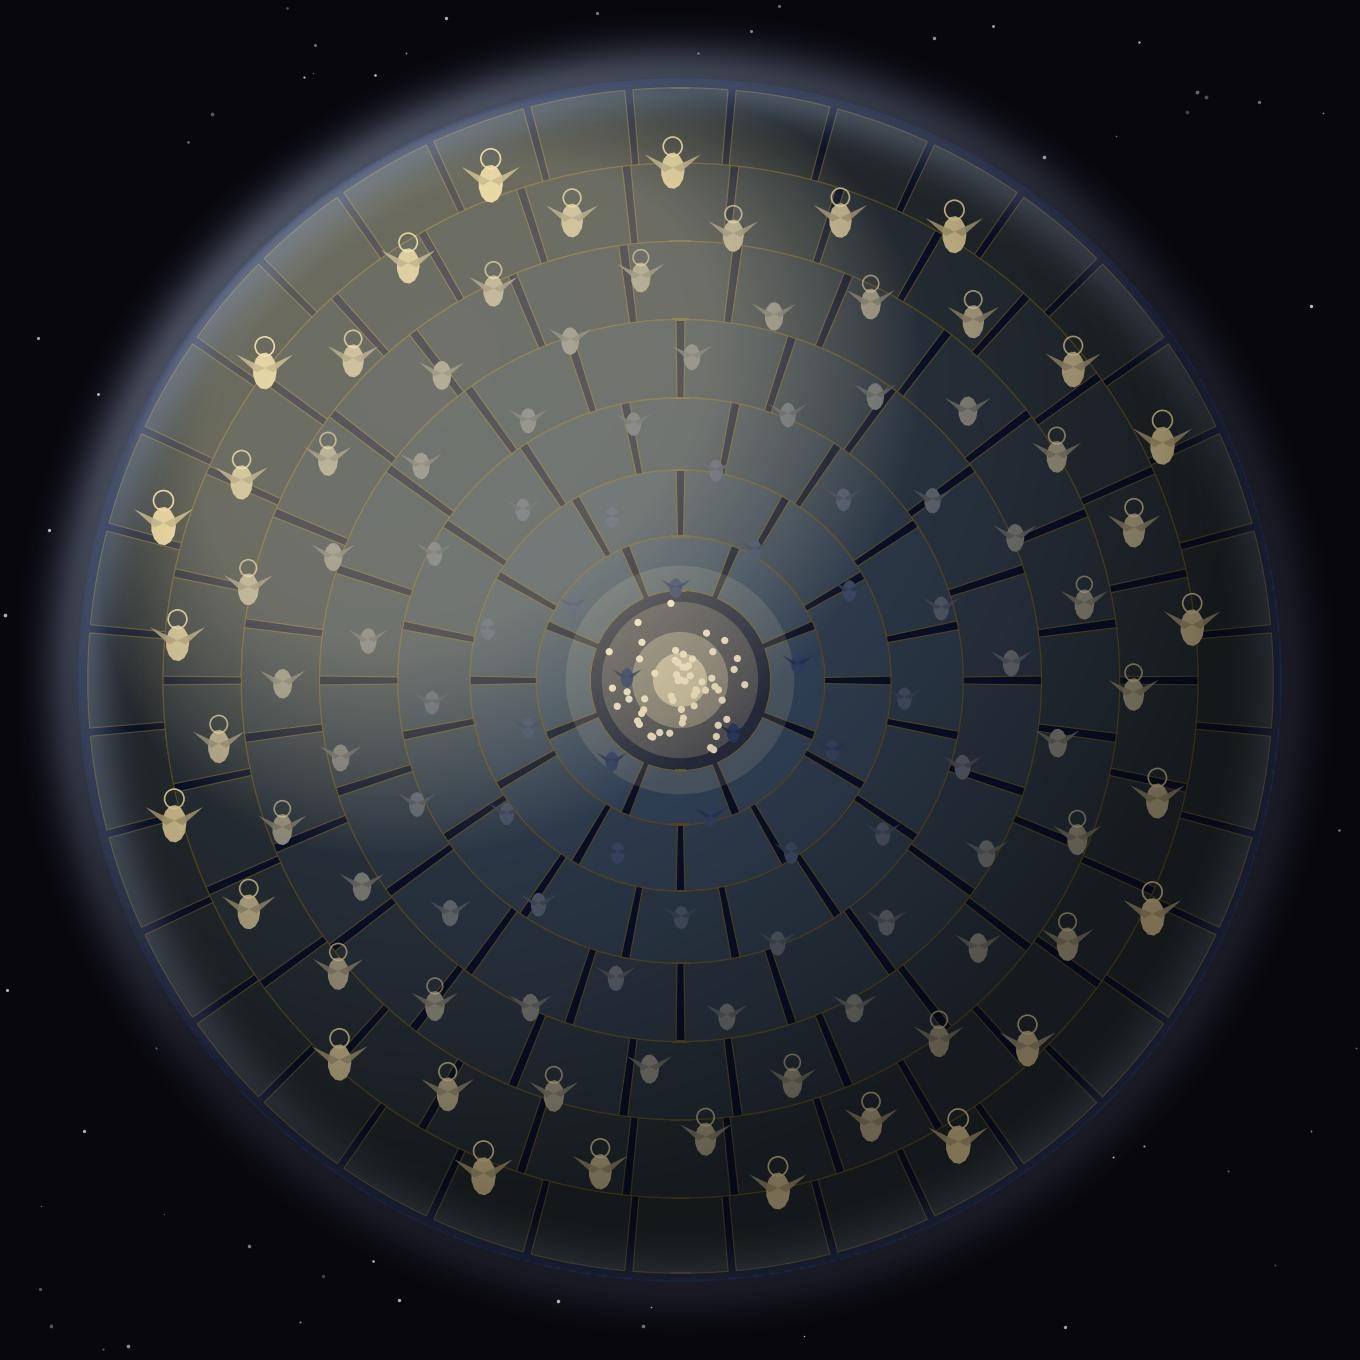
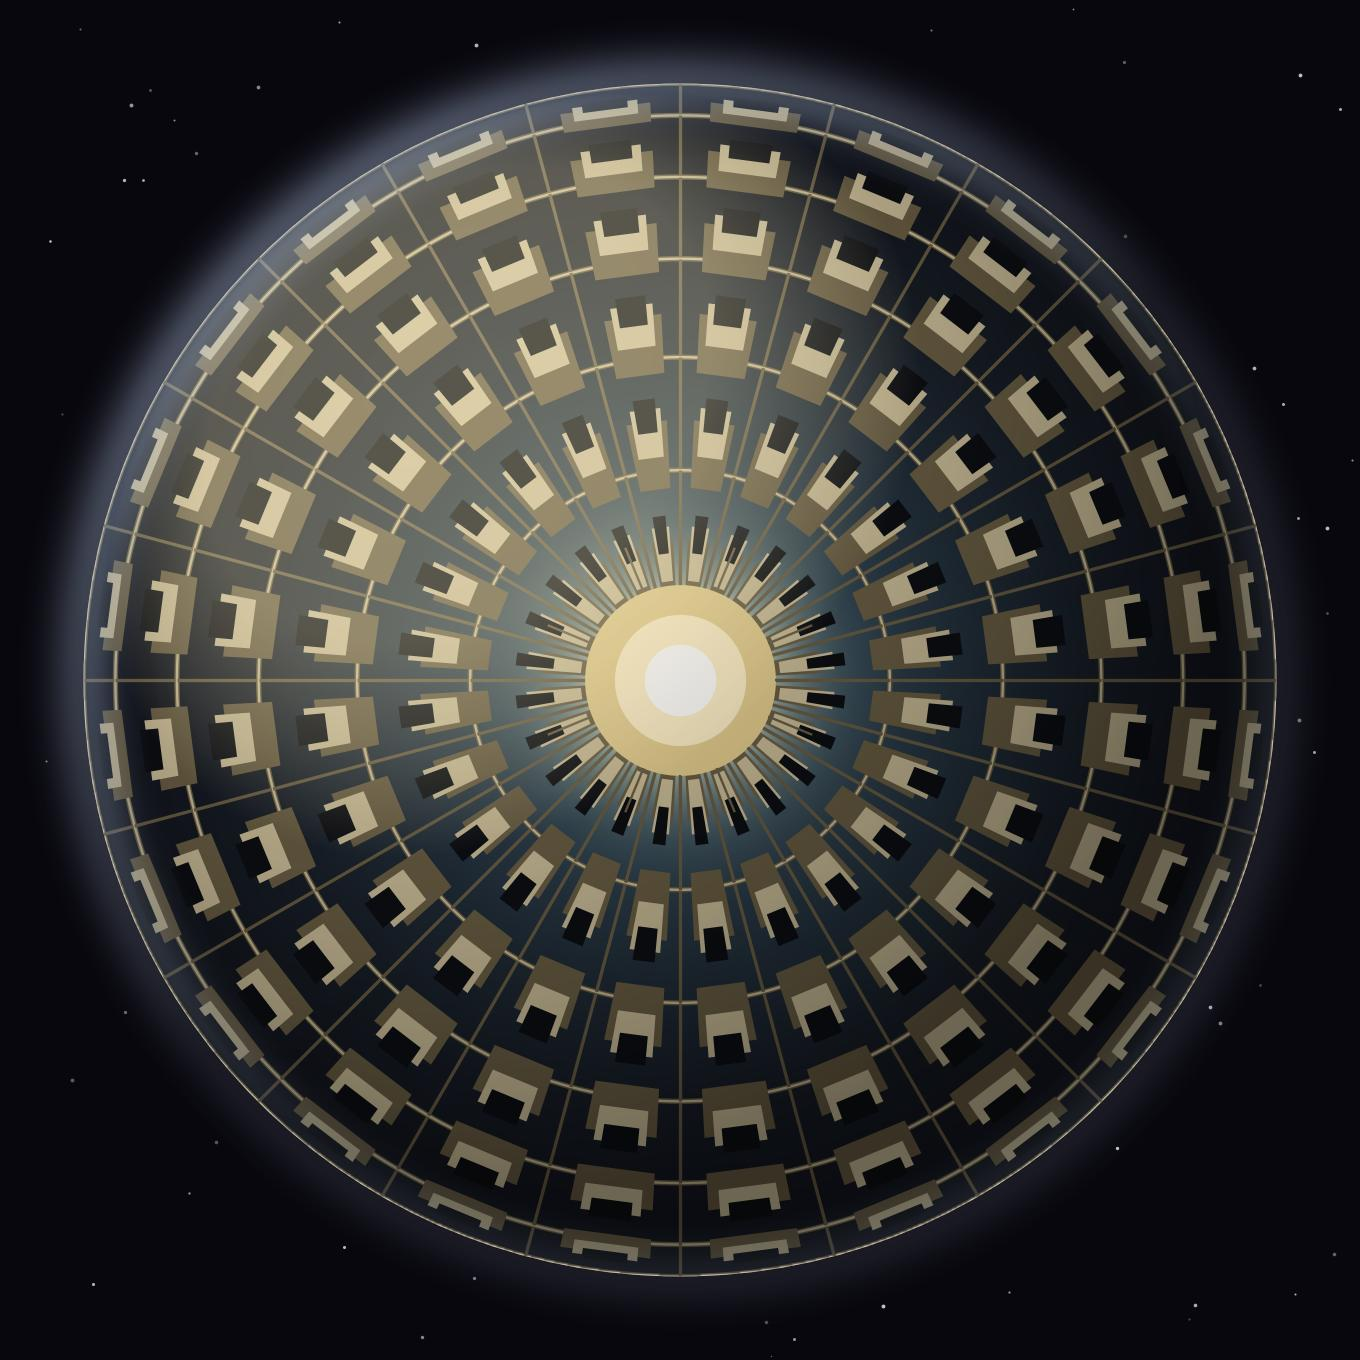
Портал II заменён на pozzo (квадратура Поццо, чёткие золотые кессоны + окулюс) — dp_portal фронтально уплощался; база deep-работ теперь точный градиент из colfn; v=12

diff --git a/index.html b/index.html
@@ -7,7 +7,7 @@
 <meta name="description" content="Двадцать четыре далёких мира, у каждого свой закон и своё небо. Узор ведут процесс и геометрия свода, отбор ведёт рука. Проект «Окно Овертона».">
 <meta property="og:title" content="ВТОРОЕ НЕБО">
 <meta property="og:description" content="Небо, полное миров. У каждого свой закон.">
-<meta property="og:image" content="img/dome_phyllo.jpg?v=11">
+<meta property="og:image" content="img/dome_phyllo.jpg?v=12">
 <meta name="theme-color" content="#08070e">
 <link rel="preconnect" href="https://fonts.googleapis.com">
 <link rel="preconnect" href="https://fonts.gstatic.com" crossorigin>
@@ -137,7 +137,7 @@ html.js .hero.in .lede{opacity:1;transform:none;transition:opacity 1s var(--e-ou
 <body>
 
 <header class="hero" id="hero">
-  <div class="oculus"><img src="img/dome_phyllo.jpg?v=11" alt="Купол-окулюс из золотых зёрен, растущих по спирали"></div>
+  <div class="oculus"><img src="img/dome_phyllo.jpg?v=12" alt="Купол-окулюс из золотых зёрен, растущих по спирали"></div>
   <h1 class="display">ВТОРОЕ&nbsp;НЕБО<span class="wedge" aria-hidden="true"></span></h1>
   <p class="lede">Двадцать четыре мира. У каждого свой закон и своё небо.</p>
   <div class="scrollcue">ниже</div>
@@ -169,72 +169,72 @@ html.js .hero.in .lede{opacity:1;transform:none;transition:opacity 1s var(--e-ou
     </div>
     <div class="domes">
       <figure class="dome" data-reveal>
-        <img src="img/dome_reaction.jpg?v=11" loading="lazy" alt="Свод из извилистых складок, паттерн реакции-диффузии">
+        <img src="img/dome_reaction.jpg?v=12" loading="lazy" alt="Свод из извилистых складок, паттерн реакции-диффузии">
         <figcaption><span class="name">Живая кожа</span>
           <span class="line">Реакция-диффузия. Тем же способом на шкуре зверя проступают пятна.</span></figcaption>
       </figure>
       <figure class="dome" data-reveal>
-        <img src="img/dome_beam.jpg?v=11" loading="lazy" alt="Концентрические кольца">
+        <img src="img/dome_beam.jpg?v=12" loading="lazy" alt="Концентрические кольца">
         <figcaption><span class="name">Автопортрет слуха</span>
           <span class="line">Кольца — это дифракция. Если бы мир умел слышать, он выглядел бы примерно так.</span></figcaption>
       </figure>
       <figure class="dome" data-reveal>
-        <img src="img/dome_percol.jpg?v=11" loading="lazy" alt="Кобальтовые пятна на светлом">
+        <img src="img/dome_percol.jpg?v=12" loading="lazy" alt="Кобальтовые пятна на светлом">
         <figcaption><span class="name">Перколь</span>
           <span class="line">Синим залито только то, что дотекло до края. Порог протекания — 0,5927.</span></figcaption>
       </figure>
       <figure class="dome" data-reveal>
-        <img src="img/dome_vitel.jpg?v=11" loading="lazy" alt="Золотые вихревые линии">
+        <img src="img/dome_vitel.jpg?v=12" loading="lazy" alt="Золотые вихревые линии">
         <figcaption><span class="name">Витель</span>
           <span class="line">Линии тока в завихрённом поле.</span></figcaption>
       </figure>
       <figure class="dome" data-reveal>
-        <img src="img/dome_frost.jpg?v=11" loading="lazy" alt="Серебряные ветви инея">
+        <img src="img/dome_frost.jpg?v=12" loading="lazy" alt="Серебряные ветви инея">
         <figcaption><span class="name">Изморозь</span>
           <span class="line">Иней. Растёт от края внутрь, сам.</span></figcaption>
       </figure>
       <figure class="dome" data-reveal>
-        <img src="img/dome_mayatnik.jpg?v=11" loading="lazy" alt="Клубок золотых нитей">
+        <img src="img/dome_mayatnik.jpg?v=12" loading="lazy" alt="Клубок золотых нитей">
         <figcaption><span class="name">Маятник</span>
           <span class="line">Восемь запусков двойного маятника. Стартовали почти одинаково, разошлись за секунды.</span></figcaption>
       </figure>
       <figure class="dome" data-reveal>
-        <img src="img/dome_nabor.jpg?v=11" loading="lazy" alt="Красно-золотая розетка">
+        <img src="img/dome_nabor.jpg?v=12" loading="lazy" alt="Красно-золотая розетка">
         <figcaption><span class="name">Набор</span>
           <span class="line">Клеточный автомат, правило 30. Из одной строки — всё поле.</span></figcaption>
       </figure>
       <figure class="dome" data-reveal>
-        <img src="img/dome_chern.jpg?v=11" loading="lazy" alt="Серебро и чернь, пятна">
+        <img src="img/dome_chern.jpg?v=12" loading="lazy" alt="Серебро и чернь, пятна">
         <figcaption><span class="name">Чернь-домен</span>
           <span class="line">Магнит у критической точки. Пятна всех размеров сразу — оттого и рябит.</span></figcaption>
       </figure>
       <figure class="dome" data-reveal>
-        <img src="img/dome_chladni.jpg?v=11" loading="lazy" alt="Золотые узловые линии на кобальтово-красном своде">
+        <img src="img/dome_chladni.jpg?v=12" loading="lazy" alt="Золотые узловые линии на кобальтово-красном своде">
         <figcaption><span class="name">Камертон</span>
           <span class="line">Две моды круглой мембраны. Золото остаётся там, где поверхность не движется.</span></figcaption>
       </figure>
       <figure class="dome" data-reveal>
-        <img src="img/dome_apollon.jpg?v=11" loading="lazy" alt="Свод из касающихся кругов разных размеров">
+        <img src="img/dome_apollon.jpg?v=12" loading="lazy" alt="Свод из касающихся кругов разных размеров">
         <figcaption><span class="name">Апейрон</span>
           <span class="line">Четыре касания рождают пятый круг. Каждый новый просвет снова заполняется.</span></figcaption>
       </figure>
       <figure class="dome" data-reveal>
-        <img src="img/dome_tyaga.jpg?v=11" loading="lazy" alt="Золотая ветвящаяся сеть усилий">
+        <img src="img/dome_tyaga.jpg?v=12" loading="lazy" alt="Золотая ветвящаяся сеть усилий">
         <figcaption><span class="name">Тяга</span>
           <span class="line">Девяносто шесть линий сходятся попарно. Чем ближе к центру, тем больше они несут.</span></figcaption>
       </figure>
       <figure class="dome" data-reveal>
-        <img src="img/dome_caustic.jpg?v=11" loading="lazy" alt="Световые дуги двойной гравитационной линзы и золотая критическая кривая">
+        <img src="img/dome_caustic.jpg?v=12" loading="lazy" alt="Световые дуги двойной гравитационной линзы и золотая критическая кривая">
         <figcaption><span class="name">Небо каустик</span>
           <span class="line">Два невидимых тела искривляют путь света. Их присутствие читается по дугам и местам предельного увеличения.</span></figcaption>
       </figure>
       <figure class="dome" data-reveal>
-        <img src="img/dome_chrono.jpg?v=11" loading="lazy" alt="Сеть событий, соединённых внутри световых конусов">
+        <img src="img/dome_chrono.jpg?v=12" loading="lazy" alt="Сеть событий, соединённых внутри световых конусов">
         <figcaption><span class="name">Хроносвод</span>
           <span class="line">Свет делит события на прошлое, будущее и недостижимое. Золото связывает только то, что способно повлиять друг на друга.</span></figcaption>
       </figure>
       <figure class="dome" data-reveal>
-        <img src="img/dome_superfluid.jpg?v=11" loading="lazy" alt="Фазовое поле и решётка квантованных вихрей">
+        <img src="img/dome_superfluid.jpg?v=12" loading="lazy" alt="Фазовое поле и решётка квантованных вихрей">
         <figcaption><span class="name">Сверхтекучее небо</span>
           <span class="line">Вокруг каждой тёмной точки фаза делает целый оборот. Вращение существует только дискретными вихрями.</span></figcaption>
       </figure>
@@ -250,17 +250,17 @@ html.js .hero.in .lede{opacity:1;transform:none;transition:opacity 1s var(--e-ou
     </div>
     <div class="domes">
       <figure class="dome" data-reveal>
-        <img src="img/dome_equal_area.jpg?v=11" loading="lazy" alt="Равновеликая сферическая мозаика из 127 ячеек">
+        <img src="img/dome_equal_area.jpg?v=12" loading="lazy" alt="Равновеликая сферическая мозаика из 127 ячеек">
         <figcaption><span class="name">Собор равных ячеек</span>
           <span class="line">Сто двадцать семь элементов имеют одинаковую площадь на сфере. К зениту меняется очертание, но не вес: мир собирается из равных присутствий.</span></figcaption>
       </figure>
       <figure class="dome" data-reveal>
-        <img src="img/dome_conformal.jpg?v=11" loading="lazy" alt="Конформная сеть из пяти поясов и 140 кессонов">
+        <img src="img/dome_conformal.jpg?v=12" loading="lazy" alt="Конформная сеть из пяти поясов и 140 кессонов">
         <figcaption><span class="name">Конформное небо</span>
           <span class="line">Пять поясов по двадцать восемь кессонов построены в координатах обратного Меркатора. Масштаб меняется, прямой угол остаётся законом.</span></figcaption>
       </figure>
       <figure class="dome" data-reveal>
-        <img src="img/dome_light_muqarnas.jpg?v=11" loading="lazy" alt="Пространственная световая мукарна из 112 ниш и 448 фасеток">
+        <img src="img/dome_light_muqarnas.jpg?v=12" loading="lazy" alt="Пространственная световая мукарна из 112 ниш и 448 фасеток">
         <figcaption><span class="name">Световая мукарна</span>
           <span class="line">Радиальный план 4→8→16→32 поднят в 112 реальных ниш. Свет не нанесён сверху: он возникает на 448 гранях и собирает плоскость в глубину.</span></figcaption>
       </figure>
@@ -276,32 +276,32 @@ html.js .hero.in .lede{opacity:1;transform:none;transition:opacity 1s var(--e-ou
     </div>
     <div class="domes">
       <figure class="dome" data-reveal>
-        <img src="img/dome_portal_1.jpg?v=11" loading="lazy" alt="Золотой кессонированный свод с фигурами">
+        <img src="img/dome_portal_1.jpg?v=12" loading="lazy" alt="Золотой кессонированный свод с фигурами">
         <figcaption><span class="name">Портал · I</span>
           <span class="line">Кессоны, как у Поццо. Смотришь вверх — потолка нет, есть провал в небо.</span></figcaption>
       </figure>
       <figure class="dome" data-reveal>
-        <img src="img/dome_portal_2.jpg?v=11" loading="lazy" alt="Серебряный свод с фигурами">
+        <img src="img/dome_portal_2.jpg?v=12" loading="lazy" alt="Серебряный свод с фигурами">
         <figcaption><span class="name">Портал · II</span>
           <span class="line">То же место, другой прогон. Свет ушёл в серебро.</span></figcaption>
       </figure>
       <figure class="dome" data-reveal>
-        <img src="img/dome_portal_3.jpg?v=11" loading="lazy" alt="Красно-золотой свод с фигурами">
+        <img src="img/dome_portal_3.jpg?v=12" loading="lazy" alt="Красно-золотой свод с фигурами">
         <figcaption><span class="name">Портал · III</span>
           <span class="line">И ещё раз. Из трёх мне ближе этот — сам не до конца понимаю почему.</span></figcaption>
       </figure>
       <figure class="dome" data-reveal>
-        <img src="img/dome_san_marco.jpg?v=11" loading="lazy" alt="Золотой византийский свод с фигурами">
+        <img src="img/dome_san_marco.jpg?v=12" loading="lazy" alt="Золотой византийский свод с фигурами">
         <figcaption><span class="name">Сан-Марко</span>
           <span class="line">Золотой фон Византии, а по нему — те, кого хотели помнить.</span></figcaption>
       </figure>
       <figure class="dome" data-reveal>
-        <img src="img/dome_muqarnas.jpg?v=11" loading="lazy" alt="Сотовый сталактитовый свод">
+        <img src="img/dome_muqarnas.jpg?v=12" loading="lazy" alt="Сотовый сталактитовый свод">
         <figcaption><span class="name">Мукарны</span>
           <span class="line">Исламские соты: один свод разбит на сотню маленьких.</span></figcaption>
       </figure>
       <figure class="dome" data-reveal>
-        <img src="img/dome_mandala.jpg?v=11" loading="lazy" alt="Концентрический симметричный узор">
+        <img src="img/dome_mandala.jpg?v=12" loading="lazy" alt="Концентрический симметричный узор">
         <figcaption><span class="name">Мандала</span>
           <span class="line">Круг с центром. Так на Востоке рисовали устройство мира.</span></figcaption>
       </figure>

diff --git a/make_law_planets.py b/make_law_planets.py
@@ -44,10 +44,15 @@ def newfig_frontal(bg):
     return fig,ax
 def flat_disc(ax,col,vig=0.0,lite=None,amb=0.5,hi=0.8):   # для make_chaos_dish.flat_base(col-строка)
     ax.add_patch(Circle((0,0),A,fc=hx(col),ec="none",zorder=1))
-def flat_disc_fn(ax,colfn,amb=0.32,hi=0.85):              # для make_deep.base(colfn)
-    try: c=np.clip(np.asarray(colfn(np.array([0.0]),np.array([0.0]),np.array([0.0])))[0],0,1)
-    except Exception: c=hx("#141018")
-    ax.add_patch(Circle((0,0),A,fc=c,ec="none",zorder=1))
+def flat_disc_fn(ax,colfn,amb=0.32,hi=0.85):              # для make_deep.base(colfn) — точный градиент
+    N=440; xs=np.linspace(-1,1,N); U,V=np.meshgrid(xs,xs); R=np.hypot(U,V); m=R<=1.0
+    try:
+        cols=np.clip(np.asarray(colfn(U[m],V[m],R[m]),float),0,1)
+        full=np.zeros((N*N,3)); full[np.where(m.ravel())[0]]=cols
+        img=np.zeros((N,N,4)); img[...,:3]=full.reshape(N,N,3); img[...,3]=m.astype(float)
+        ax.imshow(img,extent=[-A,A,-A,A],origin="lower",zorder=1,interpolation="bilinear")
+    except Exception:
+        ax.add_patch(Circle((0,0),A,fc=hx("#141018"),ec="none",zorder=1))
 
 def planet_frame(ax, warm="#cfe0f5", dark=0.6):
     N=520; xs=np.linspace(-W,W,N); xx,yy=np.meshgrid(xs,xs); r=np.hypot(xx,yy)/A
@@ -74,7 +79,7 @@ WARM={"percol":"#dfeafa","vitel":"#f4d98f","frost":"#cfe0f5","mayatnik":"#f0d692
       "portal_1":"#cfe0f5","portal_2":"#fff2c8","portal_3":"#fff2c8"}
 # cogos stem -> site dome name
 DOME={"dp_tesserae":"san_marco","dp_muqarnas":"muqarnas","dp_mandala":"mandala",
-      "dp_portal":"portal_2","fn_portal":"portal_3","wk25_portal":"portal_1"}
+      "dp_portal":"portal_2_dp_unused","dp_pozzo":"portal_2","fn_portal":"portal_3","wk25_portal":"portal_1"}
 
 # общие патчи проекции/фона/рамки
 D.newfig=newfig_frontal
@@ -99,7 +104,7 @@ import make_final as MF                                   # fn_portal — тож
 REG={}
 for w in ("percol","vitel","frost","mayatnik","nabor","chern"):
     REG[w]=getattr(C,w)                                  # chaos: сохраняются через C.save
-for w in ("tesserae","muqarnas","mandala","portal"):
+for w in ("tesserae","muqarnas","mandala","pozzo"):
     REG[w]=getattr(D,w)                                  # deep: сохраняются через fig.savefig-обёртку
 REG["fn_portal"]=lambda: MF.portal()                     # Портал III
 